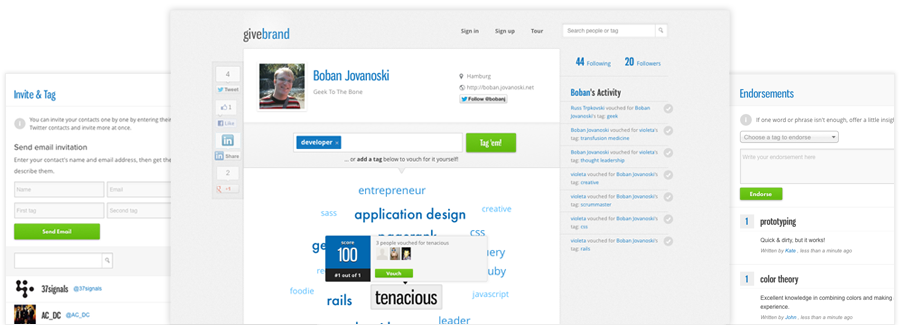
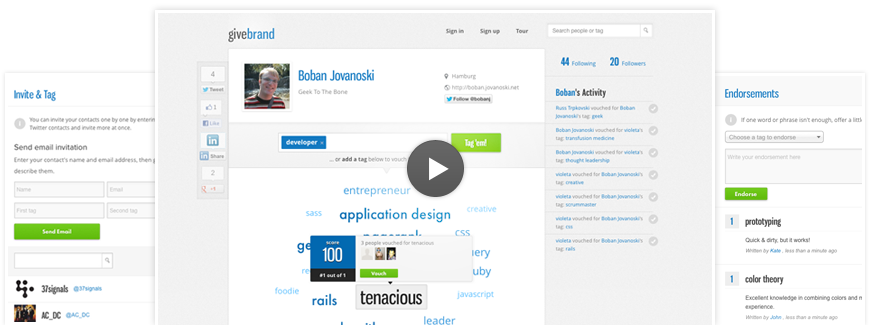
added video

diff --git a/app/assets/stylesheets/application.css.scss b/app/assets/stylesheets/application.css.scss
@@ -959,7 +959,7 @@ footer {
     @include text-shadow(#fff 0 1px 1px);
   }
   .easy-signup {
-    background: #e3e3e3;
+    background: #e2e2e2;
     border: 1px solid #ddd;
     margin: 0 auto 10px;
     padding: 6px 22px 6px 10px;
@@ -1009,8 +1009,18 @@ footer {
   }
   .video {
     background: image_url("featured.png") no-repeat center;
-    height: 320px;
+    cursor: pointer;
+    height: 325px;
     margin-top: 20px;
+    iframe {
+      display: none;
+      padding-top: 10px;
+    }
+    &:hover, &:focus {
+      iframe {
+        display: inline-block;
+      }
+    }
   }
 }
 
